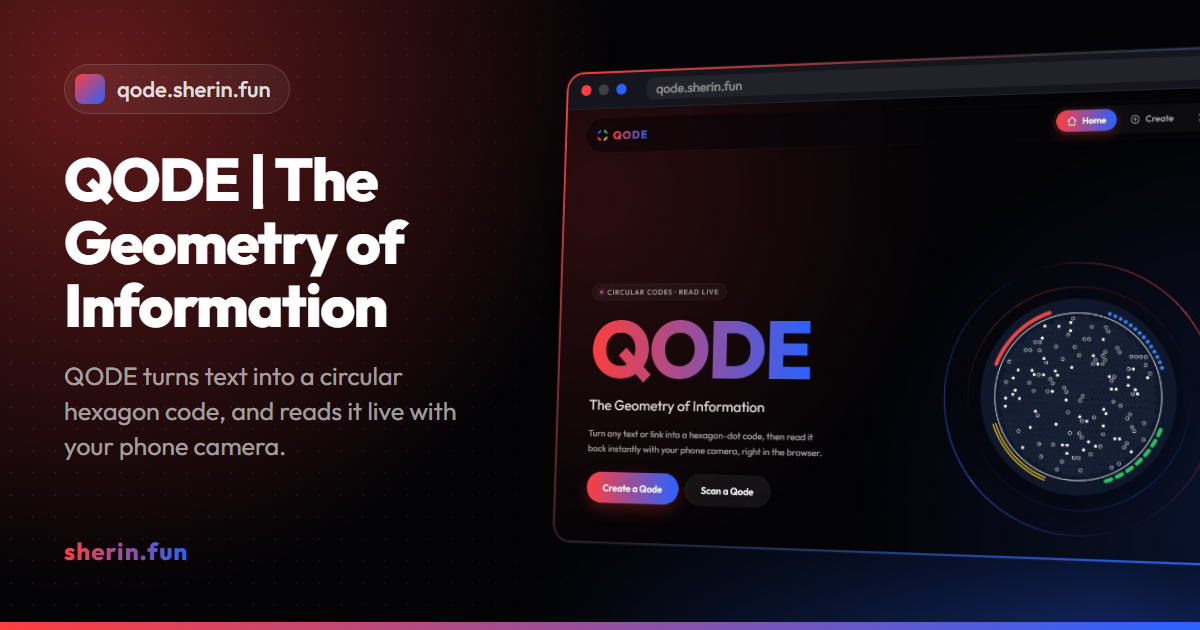
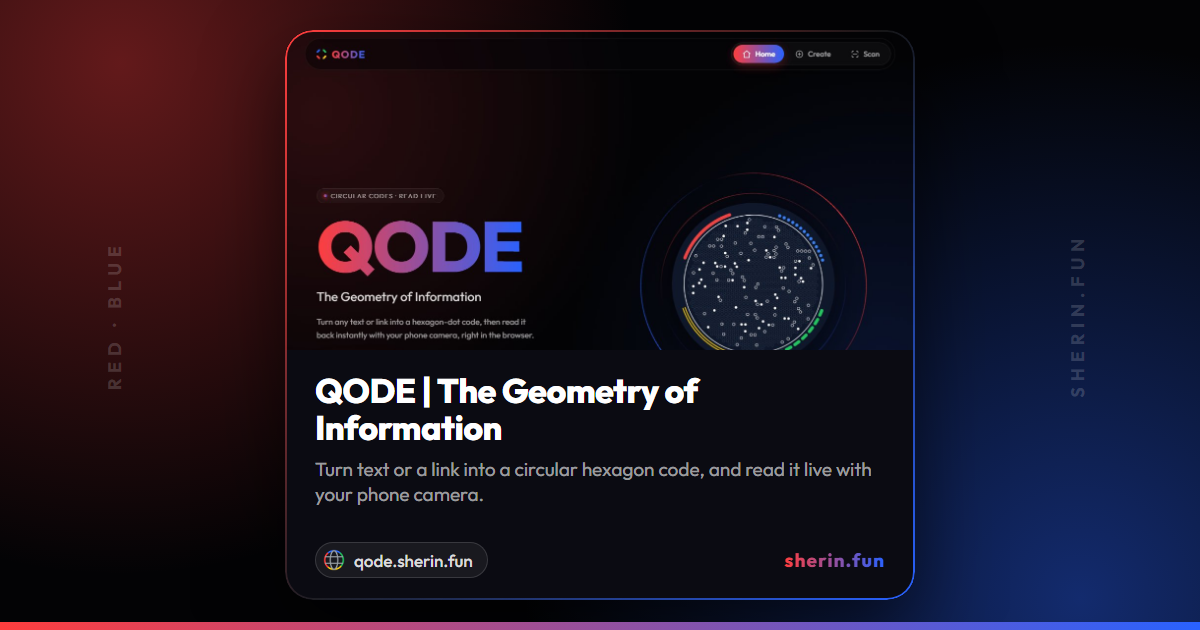
Square-safe card: everything in the middle so every platform's crop keeps it
Screenshot, title, description, icon and signature now sit in one centred
card, so WhatsApp and iMessage's square crop shows the whole thing and wide
previews still get the full banner.

diff --git a/card.js b/card.js
@@ -1,7 +1,9 @@
-// The 1200x630 preview card: page screenshot in a framed window, red-blue signature
+// The 1200x630 preview card. Everything that matters sits in the middle 630x630
+// square, so it survives the square crop WhatsApp and iMessage use.
 const esc = (s) => String(s || '').replace(/[&<>"']/g, (c) => ({ '&': '&amp;', '<': '&lt;', '>': '&gt;', '"': '&quot;', "'": '&#39;' }[c]));
 
 module.exports = function card({ title, description, host, shot, icon }) {
+  const titleSize = title.length > 48 ? 30 : title.length > 30 ? 34 : 40;
   return `<!DOCTYPE html>
 <html>
 <head>
@@ -10,104 +12,73 @@ module.exports = function card({ title, description, host, shot, icon }) {
 <style>
   * { margin: 0; padding: 0; box-sizing: border-box; }
   html, body { width: 1200px; height: 630px; overflow: hidden; }
-  body {
-    font-family: 'Outfit', system-ui, sans-serif;
-    color: #fff;
-    background: #030305;
-    position: relative;
-  }
+  body { font-family: 'Outfit', system-ui, sans-serif; color: #fff; background: #030305; position: relative; }
   /* Signature glows: red top-left, blue bottom-right */
   .glow {
     position: absolute; inset: 0;
     background:
-      radial-gradient(circle at 8% 12%, rgba(255, 62, 62, 0.38), transparent 42%),
-      radial-gradient(circle at 92% 95%, rgba(41, 98, 255, 0.42), transparent 45%);
+      radial-gradient(circle at 10% 10%, rgba(255, 62, 62, 0.38), transparent 42%),
+      radial-gradient(circle at 90% 95%, rgba(41, 98, 255, 0.42), transparent 45%);
   }
-  .grid {
-    position: absolute; inset: 0;
-    background-image: radial-gradient(rgba(255, 255, 255, 0.07) 1px, transparent 1px);
-    background-size: 22px 22px;
-    -webkit-mask: linear-gradient(90deg, #000, transparent 70%);
+  .edge { position: absolute; left: 0; right: 0; bottom: 0; height: 8px; background: linear-gradient(90deg, #ff3e3e, #2962ff); }
+  /* Quiet words at the sides, only seen on wide previews */
+  .side {
+    position: absolute; top: 50%; transform: translateY(-50%) rotate(-90deg);
+    font-size: 18px; letter-spacing: 6px; font-weight: 600; color: rgba(255, 255, 255, 0.18); white-space: nowrap;
   }
-  /* Red-to-blue line along the bottom edge */
-  .edge {
-    position: absolute; left: 0; right: 0; bottom: 0; height: 8px;
-    background: linear-gradient(90deg, #ff3e3e, #2962ff);
+  .card {
+    position: absolute; left: 285px; top: 30px; width: 630px; height: 570px;
+    border-radius: 28px; overflow: hidden; background: #0b0b12;
+    box-shadow: 0 30px 80px rgba(0, 0, 0, 0.6);
   }
-  .text {
-    position: absolute; left: 64px; top: 64px; width: 440px; bottom: 64px;
-    display: flex; flex-direction: column;
-  }
-  .host {
-    display: inline-flex; align-items: center; gap: 12px; align-self: flex-start;
-    padding: 9px 18px 9px 10px;
-    border: 1px solid rgba(255, 255, 255, 0.14);
-    background: rgba(255, 255, 255, 0.05);
-    border-radius: 999px;
-    font-size: 22px; font-weight: 500; color: rgba(255, 255, 255, 0.85);
-  }
-  .host img, .host .dot { width: 30px; height: 30px; border-radius: 8px; }
-  .host .dot { background: linear-gradient(135deg, #ff3e3e, #2962ff); }
-  h1 {
-    margin-top: 34px;
-    font-size: ${title.length > 40 ? 50 : 60}px; font-weight: 800; line-height: 1.05; letter-spacing: -1.5px;
-    display: -webkit-box; -webkit-line-clamp: 3; -webkit-box-orient: vertical; overflow: hidden;
-  }
-  p {
-    margin-top: 22px;
-    font-size: 25px; line-height: 1.4; color: rgba(255, 255, 255, 0.62);
-    display: -webkit-box; -webkit-line-clamp: 3; -webkit-box-orient: vertical; overflow: hidden;
-  }
-  .sign {
-    margin-top: auto;
-    align-self: flex-start;
-    font-size: 24px; font-weight: 800; letter-spacing: 1px;
-    background: linear-gradient(90deg, #ff3e3e, #2962ff);
-    -webkit-background-clip: text; background-clip: text; color: transparent;
-  }
-  /* The screenshot, in a browser window tilted toward the text */
-  .stage { position: absolute; left: 560px; top: 70px; width: 700px; height: 500px; perspective: 1600px; }
-  .window {
-    position: absolute; left: 0; top: 0; width: 700px; height: 470px;
-    border-radius: 18px; overflow: hidden;
-    background: #0b0b12;
-    transform: rotateY(-14deg) rotateX(4deg);
-    transform-origin: left center;
-    box-shadow: 0 40px 80px rgba(0, 0, 0, 0.6), 0 0 0 1px rgba(255, 255, 255, 0.08);
-  }
-  .window::before {
-    content: ''; position: absolute; inset: 0; border-radius: 18px; padding: 2px; z-index: 3;
-    background: linear-gradient(135deg, #ff3e3e, rgba(255, 255, 255, 0.1) 45%, #2962ff);
+  .card::before {
+    content: ''; position: absolute; inset: 0; border-radius: 28px; padding: 2px; z-index: 3; pointer-events: none;
+    background: linear-gradient(135deg, #ff3e3e, rgba(255, 255, 255, 0.08) 50%, #2962ff);
     -webkit-mask: linear-gradient(#000 0 0) content-box, linear-gradient(#000 0 0);
     -webkit-mask-composite: xor; mask-composite: exclude;
   }
-  .bar {
-    height: 38px; display: flex; align-items: center; gap: 8px; padding: 0 16px;
-    background: #15151d; border-bottom: 1px solid rgba(255, 255, 255, 0.06);
+  .shot { display: block; width: 100%; height: 320px; object-fit: cover; object-position: top; }
+  .body { padding: 22px 30px 0; }
+  h1 {
+    font-size: ${titleSize}px; font-weight: 800; line-height: 1.1; letter-spacing: -0.5px;
+    display: -webkit-box; -webkit-line-clamp: 2; -webkit-box-orient: vertical; overflow: hidden;
   }
-  .bar i { width: 11px; height: 11px; border-radius: 50%; background: rgba(255, 255, 255, 0.18); }
-  .bar i:nth-child(1) { background: #ff3e3e; }
-  .bar i:nth-child(3) { background: #2962ff; }
-  .bar span {
-    margin-left: 14px; flex: 1; height: 22px; border-radius: 6px; background: rgba(255, 255, 255, 0.06);
-    font-size: 13px; line-height: 22px; padding: 0 10px; color: rgba(255, 255, 255, 0.5);
+  p {
+    margin-top: 10px; font-size: 19px; line-height: 1.35; color: rgba(255, 255, 255, 0.62);
+    display: -webkit-box; -webkit-line-clamp: 2; -webkit-box-orient: vertical; overflow: hidden;
   }
-  .shot { display: block; width: 100%; height: calc(100% - 38px); object-fit: cover; object-position: top; }
+  .foot {
+    position: absolute; left: 30px; right: 30px; bottom: 22px;
+    display: flex; justify-content: space-between; align-items: center;
+  }
+  .host {
+    display: inline-flex; align-items: center; gap: 9px;
+    padding: 6px 14px 6px 7px; border-radius: 999px;
+    border: 1px solid rgba(255, 255, 255, 0.14); background: rgba(255, 255, 255, 0.06);
+    font-size: 17px; font-weight: 500; color: rgba(255, 255, 255, 0.85);
+  }
+  .host img, .host .dot { width: 22px; height: 22px; border-radius: 6px; }
+  .host .dot { background: linear-gradient(135deg, #ff3e3e, #2962ff); }
+  .sign {
+    font-size: 19px; font-weight: 800; letter-spacing: 1px;
+    background: linear-gradient(90deg, #ff3e3e, #2962ff);
+    -webkit-background-clip: text; background-clip: text; color: transparent;
+  }
 </style>
 </head>
 <body>
   <div class="glow"></div>
-  <div class="grid"></div>
-  <div class="text">
-    <div class="host">${icon ? `<img src="${icon}">` : '<span class="dot"></span>'}${esc(host)}</div>
-    <h1>${esc(title)}</h1>
-    ${description ? `<p>${esc(description)}</p>` : ''}
-    <div class="sign">sherin.fun</div>
-  </div>
-  <div class="stage">
-    <div class="window">
-      <div class="bar"><i></i><i></i><i></i><span>${esc(host)}</span></div>
-      <img class="shot" src="${shot}">
+  <div class="side" style="left: 40px">RED · BLUE</div>
+  <div class="side" style="right: 40px">SHERIN.FUN</div>
+  <div class="card">
+    <img class="shot" src="${shot}">
+    <div class="body">
+      <h1>${esc(title)}</h1>
+      ${description ? `<p>${esc(description)}</p>` : ''}
+    </div>
+    <div class="foot">
+      <span class="host">${icon ? `<img src="${icon}">` : '<span class="dot"></span>'}${esc(host)}</span>
+      <span class="sign">sherin.fun</span>
     </div>
   </div>
   <div class="edge"></div>

diff --git a/README.md b/README.md
@@ -26,9 +26,11 @@
 
 It opens the page in a real browser, takes a screenshot, and lays it out in a **1200×630 card**:
 
-- the page's own **title**, **description** and **icon**
-- a live **screenshot** in a tilted browser window with a red→blue edge
+- a live **screenshot** of the page on top of a rounded card with a red→blue edge
+- the page's own **title**, **description** and **icon** underneath
 - red and blue glows, a gradient line along the bottom and the **sherin.fun** signature
+
+Everything that matters sits in the **middle square** of the image, so the card stays whole in the square crop that WhatsApp and iMessage use, and in the wide previews of LinkedIn, X, Discord and Slack.
 
 Because the card is made from the live page, the preview is never out of date.
 
